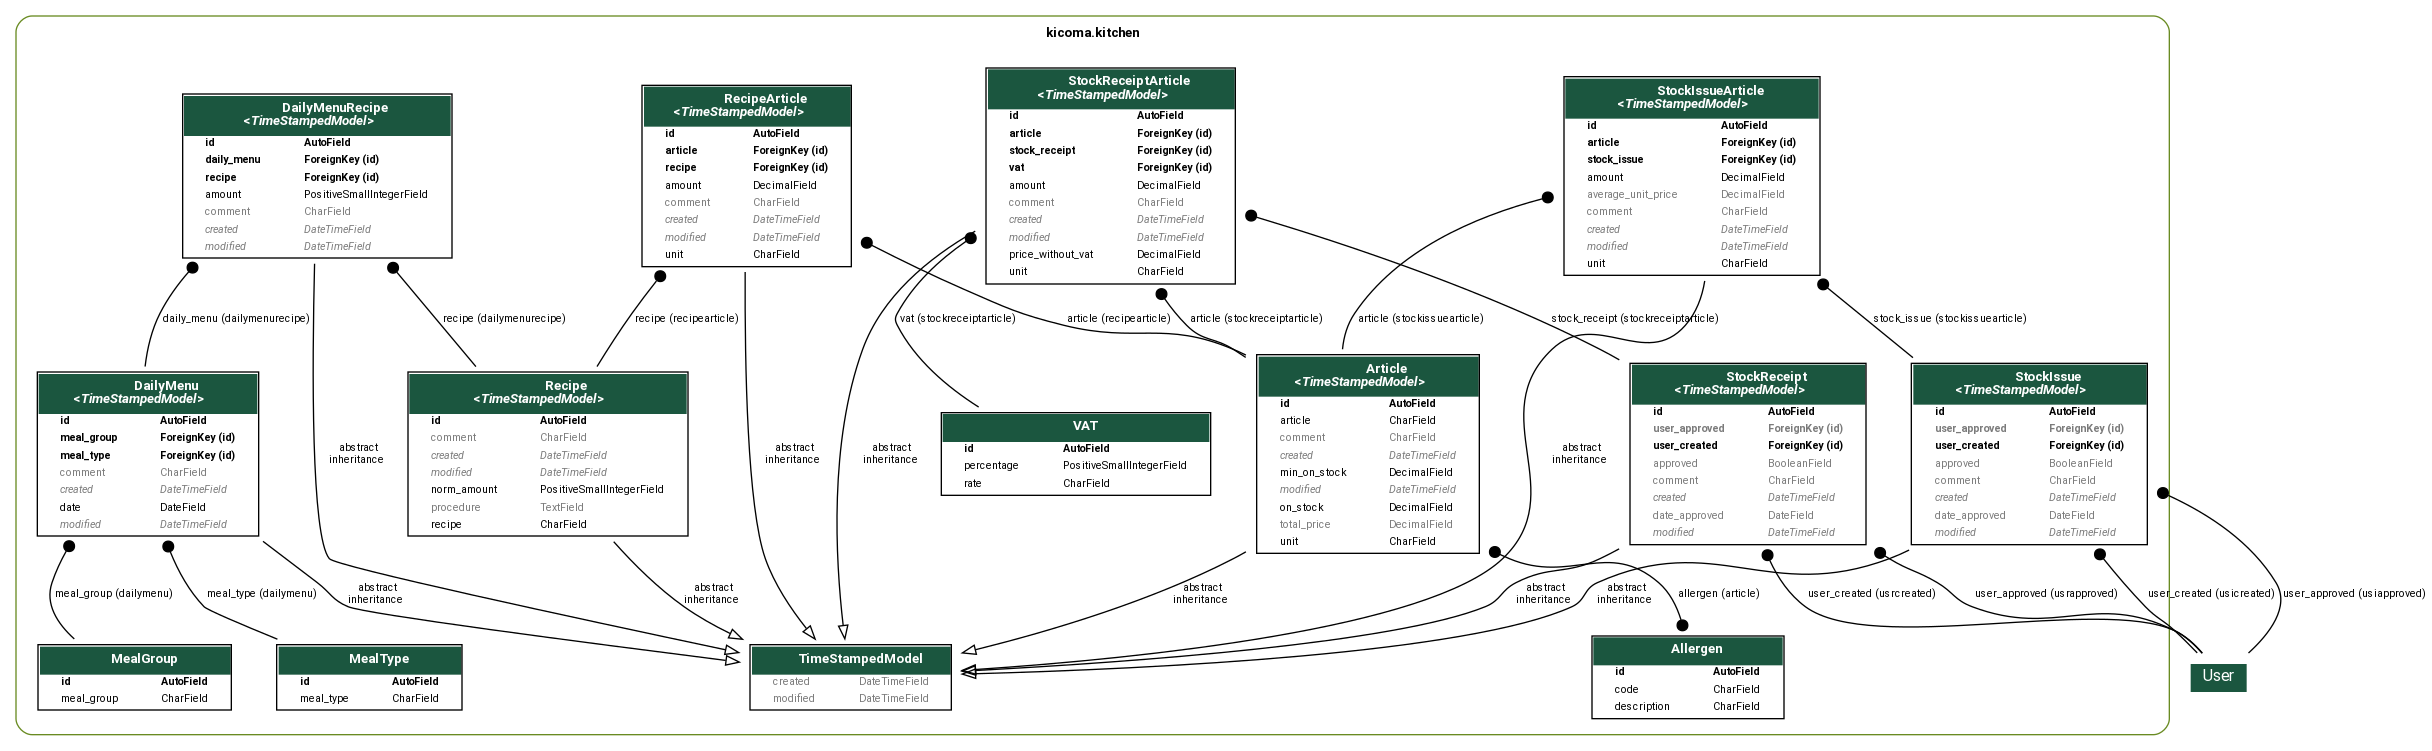
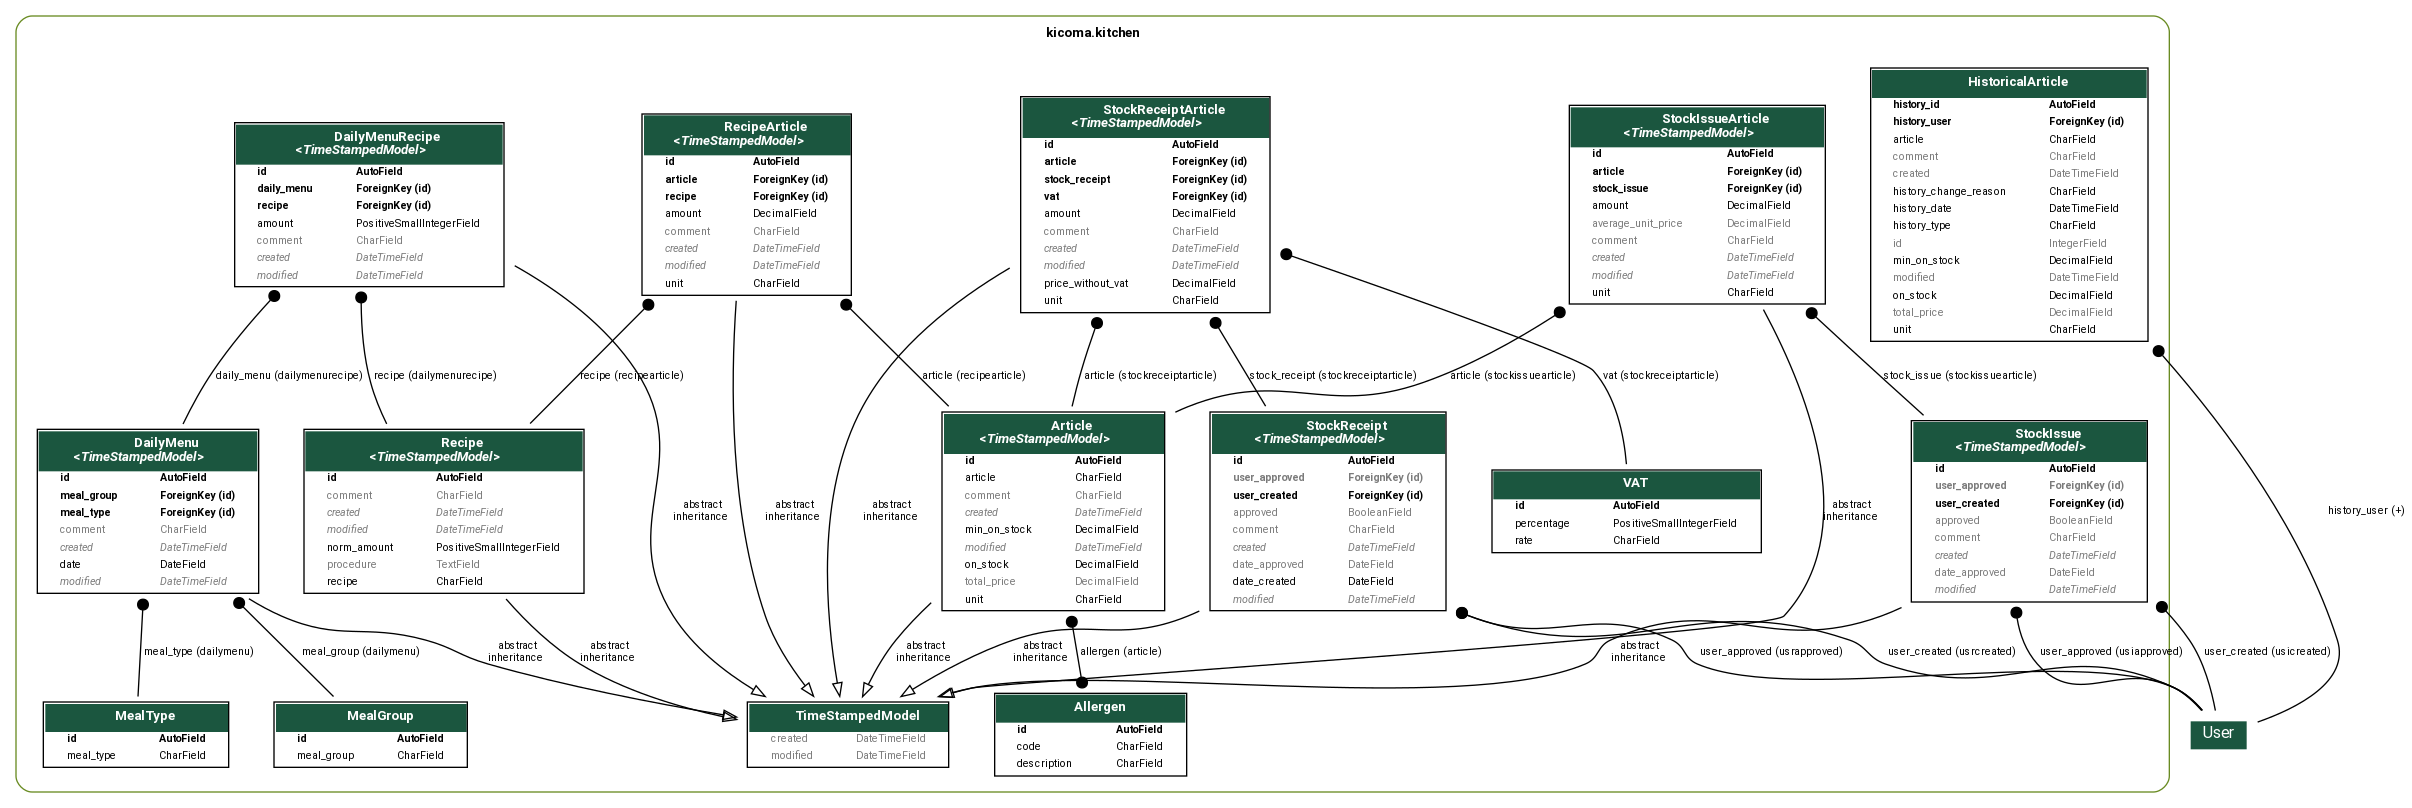
Show units in history, data model diagram updated

diff --git a/kicoma/kitchen/templates/kitchen/article/listhistory.html b/kicoma/kitchen/templates/kitchen/article/listhistory.html
@@ -11,6 +11,7 @@
       <th>Typ změny</th>
       <th>Změnila</th>
       <th>Název zboží</th>
+      <th>Jednotka</th>
       <th>Na skladu</th>
       <th>Minimálně na skladu</th>
       <th>Celková cena s DPH</th>
@@ -24,6 +25,7 @@
         <td>{{article.history_type}}</td>
         <td>{{article.history_user}}</td>
         <td>{{article.article}}</td>
+        <td>{{article.unit}}</td>
         <td>{{article.on_stock}} {{article.unit}}</td>
         <td>{{article.min_on_stock}} {{article.unit}}</td>
         <td>{{article.total_price}} Kč</td>
